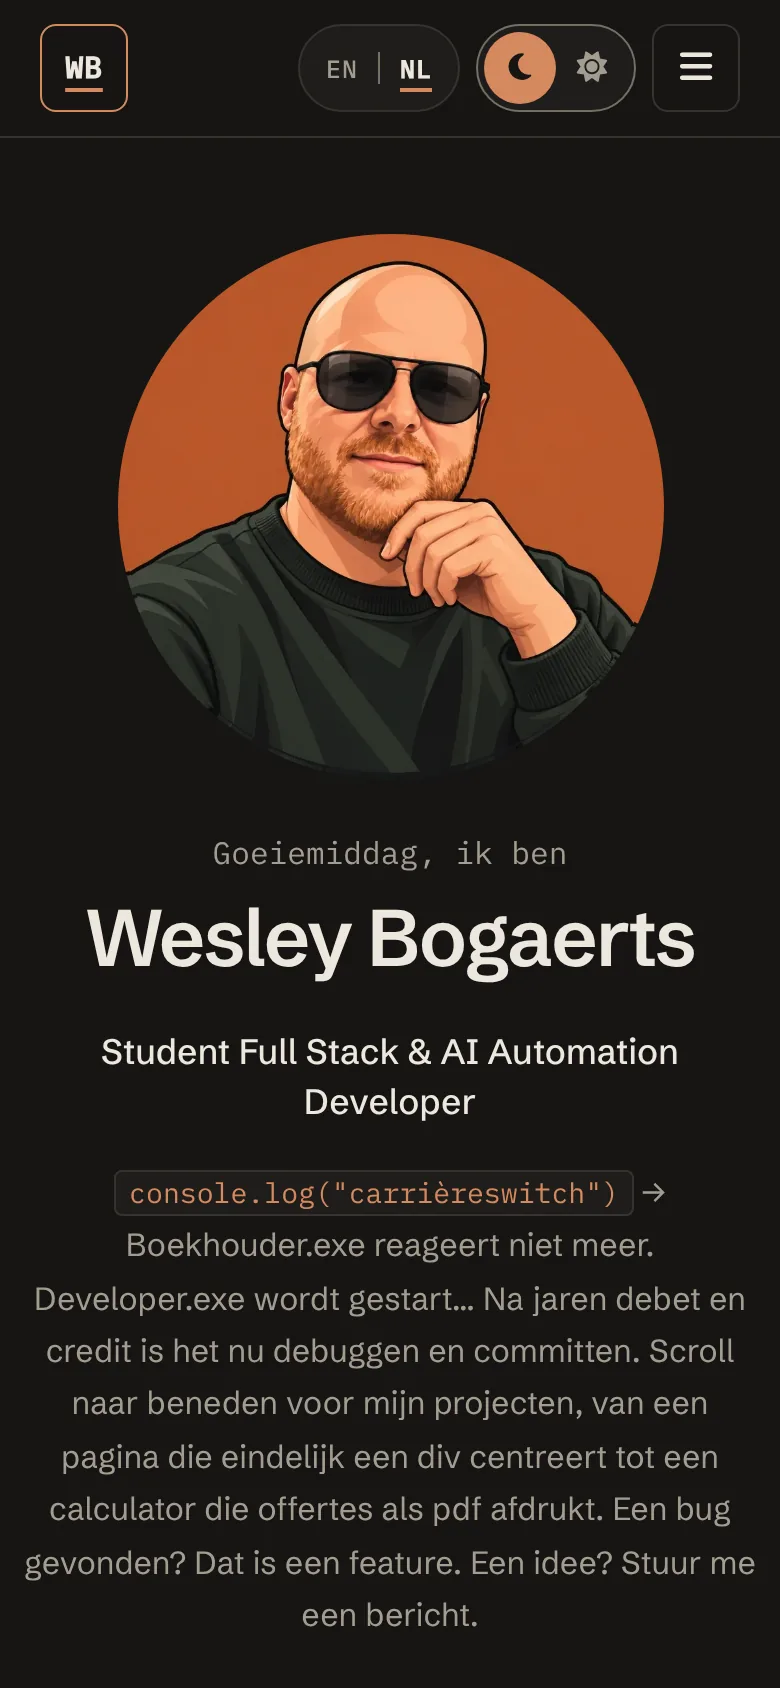
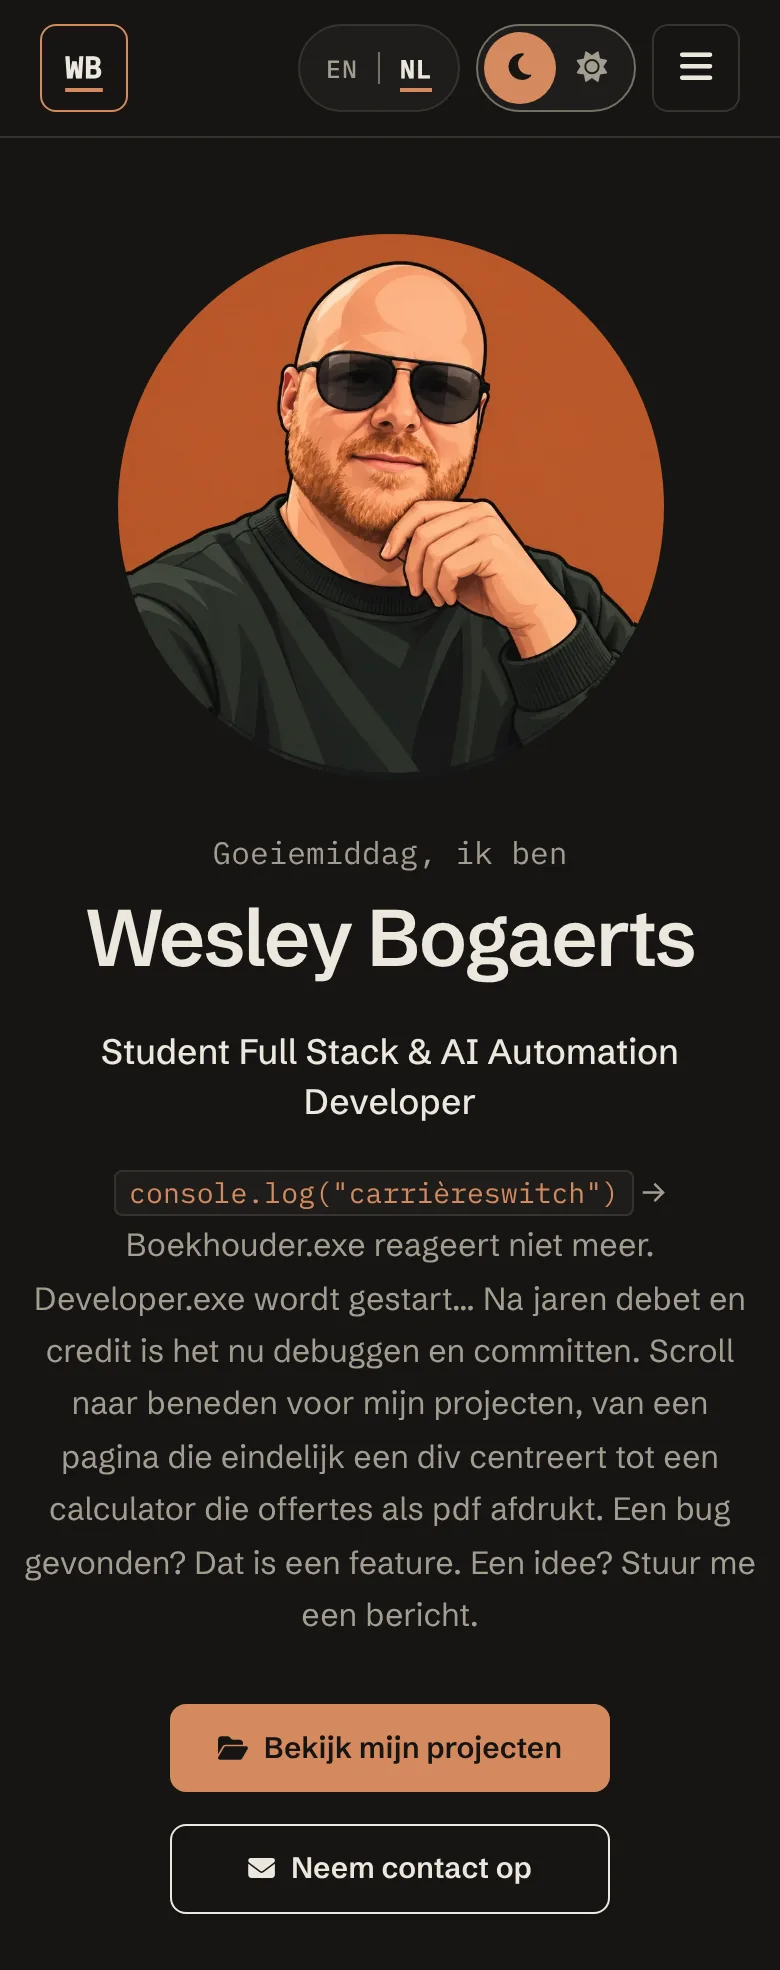
Gsm-screenshots tonen beide knoppen volledig
Elke versie stopt net onder de twee knoppen; het detailvenster volgt de
verhouding van de screenshot.

Claude-Session: https://claude.ai/code/session_01Gjkat8aXuMV2a7vVbXfSMr

diff --git a/index.html b/index.html
@@ -49,7 +49,7 @@
     <link rel="stylesheet"
         href="https://fonts.googleapis.com/css2?family=IBM+Plex+Mono:wght@400;500&family=Schibsted+Grotesk:wght@400;500;600;700&display=swap">
 
-    <link rel="stylesheet" href="style.css?v=146">
+    <link rel="stylesheet" href="style.css?v=147">
     <link rel="icon" href="/favicon-v3-192x192.png" type="image/png" sizes="192x192">
     <link rel="icon" href="/favicon.ico?v=145" sizes="16x16 32x32 48x48">
     <link rel="icon" href="/favicon-v3-96x96.png" type="image/png" sizes="96x96">
@@ -59,7 +59,7 @@
          staan voor de pagina getekend wordt. De rest van script.js wacht zelf tot de HTML geladen is. -->
     <script src="lang/en.js?v=142"></script>
     <script src="lang/nl.js?v=142"></script>
-    <script src="script.js?v=146"></script>
+    <script src="script.js?v=147"></script>
 
     <!-- jsPDF en mijn eigen script dat er de cv-pdf mee tekent; defer laadt ze zonder de pagina op te houden -->
     <script src="https://cdnjs.cloudflare.com/ajax/libs/jspdf/2.5.1/jspdf.umd.min.js"

diff --git a/script.js b/script.js
@@ -801,7 +801,7 @@ document.addEventListener("DOMContentLoaded", function () {
 
         projectModalAfbeelding.classList.toggle("is-gsm", gsmScreenshot);
         projectModalAfbeelding.width = gsmScreenshot ? 780 : 1280;
-        projectModalAfbeelding.height = gsmScreenshot ? 1688 : 800;
+        projectModalAfbeelding.height = gsmScreenshot ? 1940 : 800;
         projectModalAfbeelding.src = gsmScreenshot
             ? inThema(inTaal(project.afbeeldingMobiel), inTaal(project.afbeeldingMobielLicht))
             : inThema(inTaal(project.afbeelding), inTaal(project.afbeeldingLicht));

diff --git a/style.css b/style.css
@@ -1724,10 +1724,11 @@ html.modal-is-open {
     background: var(--bg-secondary);
 }
 
-/* Staande gsm-screenshot op een gsm: smaller, zodat titel en tekst er nog net onder passen */
+/* Staande gsm-screenshot op een gsm: smaller, zodat titel en tekst er nog net onder passen.
+   De hoogte volgt de screenshot zelf (die stopt net onder de twee knoppen). */
 .project-modal-image.is-gsm {
     width: min(100%, 220px);
-    aspect-ratio: 390 / 844;
+    aspect-ratio: auto;
     border-radius: 16px;
 }
 
